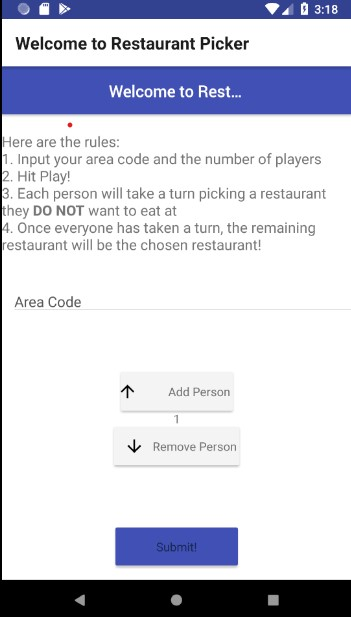
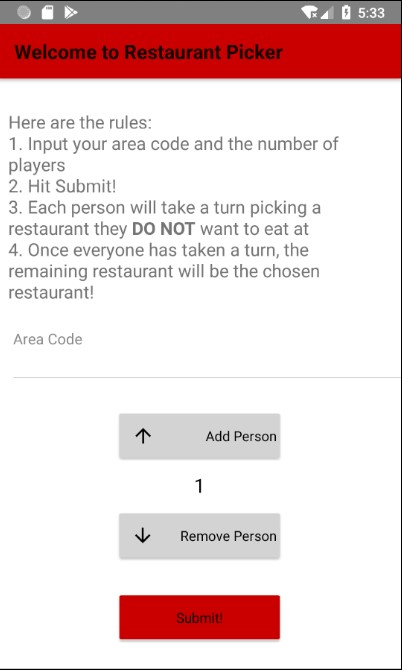
changed images and added place for ad

diff --git a/src/screens/restaurantDisplay.js b/src/screens/restaurantDisplay.js
@@ -5,7 +5,7 @@ import { View, Text } from 'react-native';
 import BusinessCard from '../components/BusinessCard'
 
 import YelpService from '../api/yelp.service';
-import { Container, Content, Header } from 'native-base';
+import { Container, Content, Header, Footer } from 'native-base';
 
 const newRed = '#CA0000';
 
@@ -62,6 +62,9 @@ export default class restaurantDisplay extends Component {
           <Content>
             {this.renderBusinesses()}
           </Content>
+          <Footer style={{backgroundColor:newRed}}>
+            <Text style={{fontSize:20}}>Banner Ad Here</Text>
+          </Footer>
         </Container>
       );
     }
